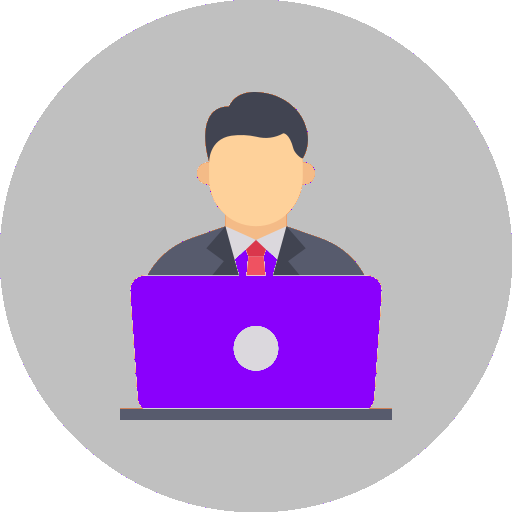
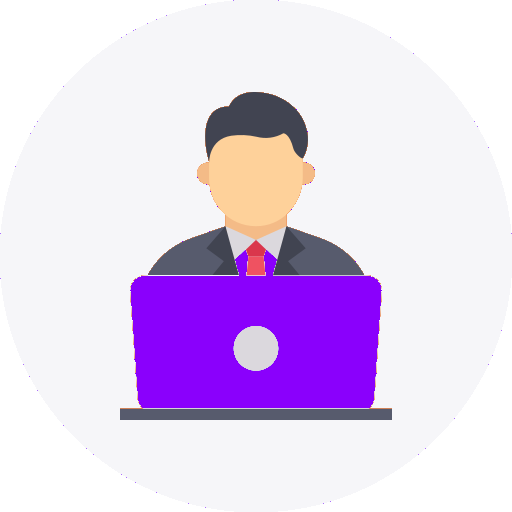
Modified front-end

diff --git a/style.css b/style.css
@@ -15,7 +15,24 @@ body {
 header {
     background-color: #8a00fc;
     color: #fff;
-    padding: 20px;
+    /* padding: 10px; */
+}
+.header-container {
+    max-width: 1200px;
+    margin: 0 auto;
+    display: flex;
+    justify-content: space-between;
+    align-items: center;
+}
+
+#home {
+    display: flex;
+    flex-direction: column;
+    align-items: center;
+    border-bottom: 1px solid #8a00fc; 
+}
+#home h1, #home p {
+    margin-bottom: 10px;
 }
 
 .logo {
@@ -24,7 +41,7 @@ header {
 }
 
 .logo img {
-    max-width: 80px;
+    max-width: 120px;
     height: auto;
 }
 
@@ -43,46 +60,73 @@ nav ul li {
     display: inline;
 }
 
-/* nav ul li a {
+nav ul li a {
     color: #ffffff;
-    margin-left: 20px;
+    margin-left: 10px;
     text-decoration: none;
-} */
+    font-weight: bold;
+}
 
-/* nav ul li a:hover {
+nav ul li a:hover {
     text-decoration: underline;
-} */
+}
 
 /* Set section styles */
 section {
-    padding: 50px;
+    padding-left: 100px;
+    padding-right: 100px;
+    padding-top: 30px;
+    padding-bottom: 30px;
     display: flex;
     flex-wrap: wrap;
-    justify-content: space-between;
-    align-items: flex-start;
+    justify-content: space-evenly;
+    align-items: center;
+    /* border-bottom: 2px solid #000000;  */
 }
 
 h1 {
     font-size: 36px;
-    margin-bottom: 20px;
+    /* margin-bottom: 20px; */
     /* flex-basis: 100%; */
 }
 
 h2 {
-    font-size: 24px;
+    font-size: 36px;
     margin-bottom: 20px;
     flex-basis: 100%;
+    /* padding-left: 70px; */
+    text-align: center;
+}
+
+.product {
+    padding-left: 100px;
+    padding-right: 100px;
+    padding-top: 30px;
+    padding-bottom: 30px;
+    display: grid; 
+    grid-template-columns: repeat(2, 1fr); 
+    grid-gap: 10px; 
 }
 
 .product, .deal {
     flex-basis: calc(30% - 30px);
-    margin-right: 30px;
-    margin-bottom: 30px;
+    /* margin-right: 30px;
+    margin-bottom: 30px; */
+    display: flex; 
+    flex-direction: column; 
+    align-items: center; 
+    text-align: center;
+    padding-top: 10px;
 }
 
 .product img, .deal img {
-    max-height: 100%;
+    /* max-height: 100%; */
+    max-width: 350px;
     width: auto;
+    /* border: 1px solid #000; */
+    background-color: #f6f6f9;
+    padding: 50px;
+
 }
 
 .product h3, .deal h3 {
@@ -114,37 +158,43 @@ footer {
     background-color: #000;
     color: #fff;
     padding: 20px 0;
+    /* display: flex;
+    flex-direction: column;
+    align-items: flex-start; Updated */
 }
 
-.container {
-    max-width: 1200px;
-    margin: 0 auto;
+.footer-container {
+    /* max-width: 1200px; */
+    /* margin: 0 auto; */
     display: flex;
-    justify-content: space-between;
-    align-items: center;
+    justify-content: space-evenly;
+    /* align-items: center; */
+    padding-left: 20px;
+    padding-right: 20px;
+    flex: 1; /* Added */
 }
 
-.container p {
+.footer-container p {
     margin: 0;
 }
 
-.container ul {
+.footer-container ul {
     list-style: none;
     margin: 0;
     padding: 0;
 }
 
-.container ul li {
+.footer-container ul li {
     display: inline;
 }
 
-.container ul li a {
+.footer-container ul li a {
     color: #fff;
     margin-left: 20px;
     text-decoration: none;
 }
 
-.container ul li a:hover {
+.footer-container ul li a:hover {
     text-decoration: underline;
 }
 
@@ -170,12 +220,9 @@ footer {
 #chat-icon img {
     width: 60px;
     height: 60px;
-    /* Add any styling for the chat icon image, such as changing the color or adding effects */
 }
 
 #chat-window {
-    /* Style for the chat bot window, such as background color, width, height, etc. */
-    /* This is the window that will appear when the chat icon is clicked */
     display: none; /* Hide the chat bot window by default */
     position: absolute;
     bottom: 80px;
@@ -198,7 +245,6 @@ footer {
     margin: 0;
     border-radius: 5px;
     background-color: #d3e0ff;
-    /* Add any styling for the chat message, such as font size, color, etc. */
 }
 
 #chat-input-container {
@@ -212,7 +258,6 @@ footer {
     border-radius: 20px;
     border: none;
     outline: none;
-    /* Add any additional styles for the input box, such as font size, color, etc. */
 }
 
 #chat-send-button {
@@ -223,5 +268,4 @@ footer {
     background-color: #8a00fc;
     color: #fff;
     cursor: pointer;
-    /* Add any additional styles for the send button, such as font size, color, etc. */
 }

diff --git a/index.html b/index.html
@@ -8,15 +8,14 @@
 </head>
 <body>
     <header>
-        <div class="container">
+        <div class="header-container">
             <div class="logo">
-                <img src="img/o-comps_logo2.png" alt="Best Buy Logo">
+                <img src="img/o-comps_logo2.png" alt="O-CompS Logo">
             </div>
             <nav>
                 <ul>
                     <li><a href="index.html">Home</a></li>
                     <li><a href="#">Products</a></li>
-                    <li><a href="#">Services</a></li>
                     <li><a href="#">About Us</a></li>
                     <li><a href="#">Contact Us</a></li>
                     <li><a href="#">Purchase History</a></li>
@@ -32,7 +31,7 @@
         <a href="#products" class="cta">Shop Now</a>
     </section>
     <section id="personal_products">
-        <h2>Based on your recent history</h1>
+        <h2>Based on your recent history</h2>
             <div class="deal">
                 <img src="img/landing_page/bestseller_product_1.avif" alt="Deal 1">
                 <h3>Deal 1</h3>
@@ -73,7 +72,7 @@
             <a href="#" class="cta">Learn More</a>
         </div>
         <div class="product">
-            <img src="img/landing_page/new_product_4.avif" alt="Product 3">
+            <img src="img/landing_page/new_product_1.avif" alt="Product 3">
             <h3>Product 4</h3>
             <p>Lorem ipsum dolor sit amet, consectetur adipiscing elit. Sed vel elit vitae est bibendum laoreet.</p>
             <a href="#" class="cta">Learn More</a>
@@ -119,7 +118,7 @@
     <script src="chat_script.js"></script>
 
     <footer>
-        <div class="container">
+        <div class="footer-container">
             <div class="left-content">
                 <p>&copy; 2023 O-CompS. All rights reserved.</p>
             </div>

diff --git a/signup.html b/signup.html
@@ -4,7 +4,7 @@
     <title>User Sign-Up</title>
     <meta charset="utf-8">
     <meta name="viewport" content="width=device-width, initial-scale=1">
-    <link rel="stylesheet" href="style.css"> <!-- Link to external CSS file for styling -->
+    <link rel="stylesheet" href="style.css"> 
     <style>
         body {
             margin: 0;
@@ -19,6 +19,7 @@
         }
         .signup-form {
             width: 300px;
+            padding-bottom: 10px;
         }
         .signup-form input {
             margin-bottom: 10px;
@@ -53,13 +54,12 @@
     <header>
         <div class="container">
             <div class="logo">
-                <img src="img/o-comps_logo2.png" alt="Best Buy Logo">
+                <img src="img/o-comps_logo2.png" alt="O-CompS Logo">
             </div>
             <nav>
                 <ul>
                     <li><a href="index.html">Home</a></li>
                     <li><a href="#">Products</a></li>
-                    <li><a href="#">Services</a></li>
                     <li><a href="#">About Us</a></li>
                     <li><a href="#">Contact Us</a></li>
                     <li><a href="#">Purchase History</a></li>

diff --git a/signin.html b/signin.html
@@ -4,7 +4,7 @@
     <title>Sign In</title>
     <meta charset="utf-8">
     <meta name="viewport" content="width=device-width, initial-scale=1">
-    <link rel="stylesheet" href="style.css"> <!-- Link to external CSS file for styling -->
+    <link rel="stylesheet" href="style.css"> 
     <style>
         body {
             margin: 0;
@@ -18,6 +18,7 @@
             height: 100vh;
         }
         .signin-form {
+            padding-bottom: 10px;
             width: 300px;
         }
         .signin-form input {
@@ -53,13 +54,12 @@
     <header>
         <div class="container">
             <div class="logo">
-                <img src="img/o-comps_logo2.png" alt="Best Buy Logo">
+                <img src="img/o-comps_logo2.png" alt="O-CompS Logo">
             </div>
             <nav>
                 <ul>
                     <li><a href="index.html">Home</a></li>
                     <li><a href="#">Products</a></li>
-                    <li><a href="#">Services</a></li>
                     <li><a href="#">About Us</a></li>
                     <li><a href="#">Contact Us</a></li>
                     <li><a href="#">Purchase History</a></li>
